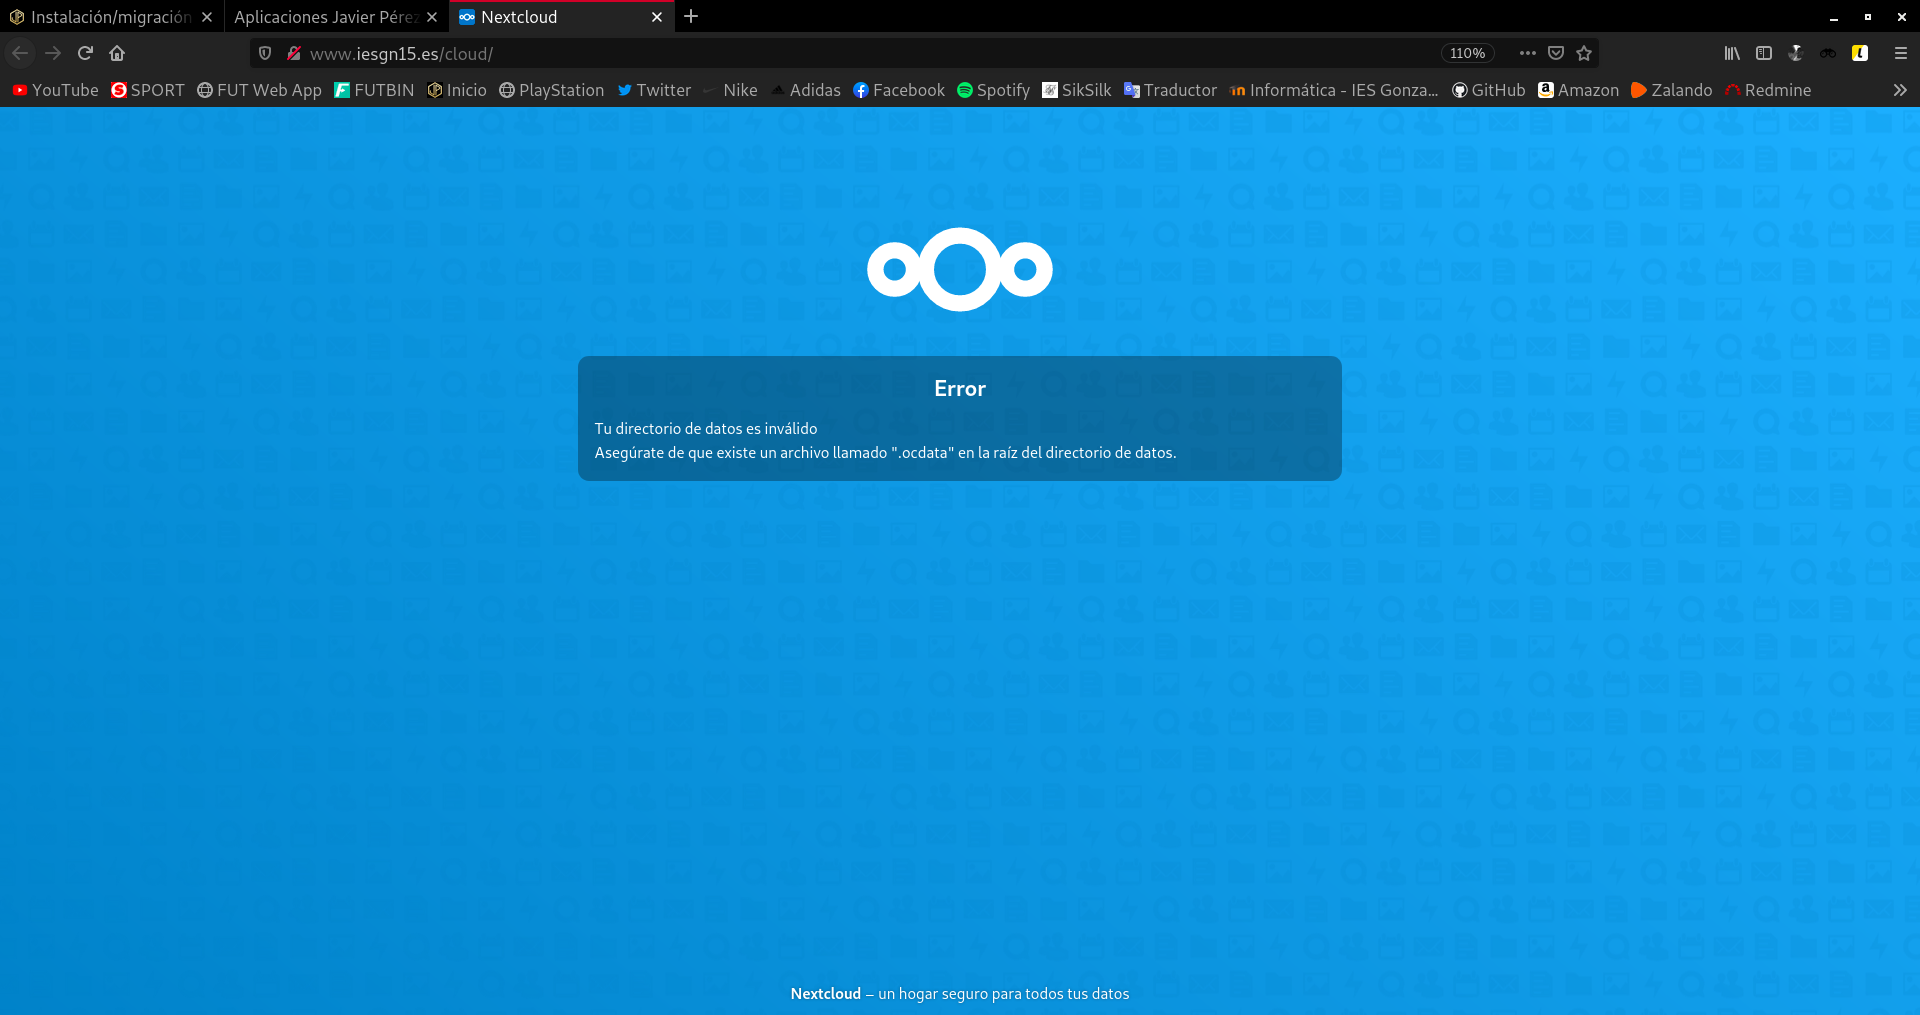
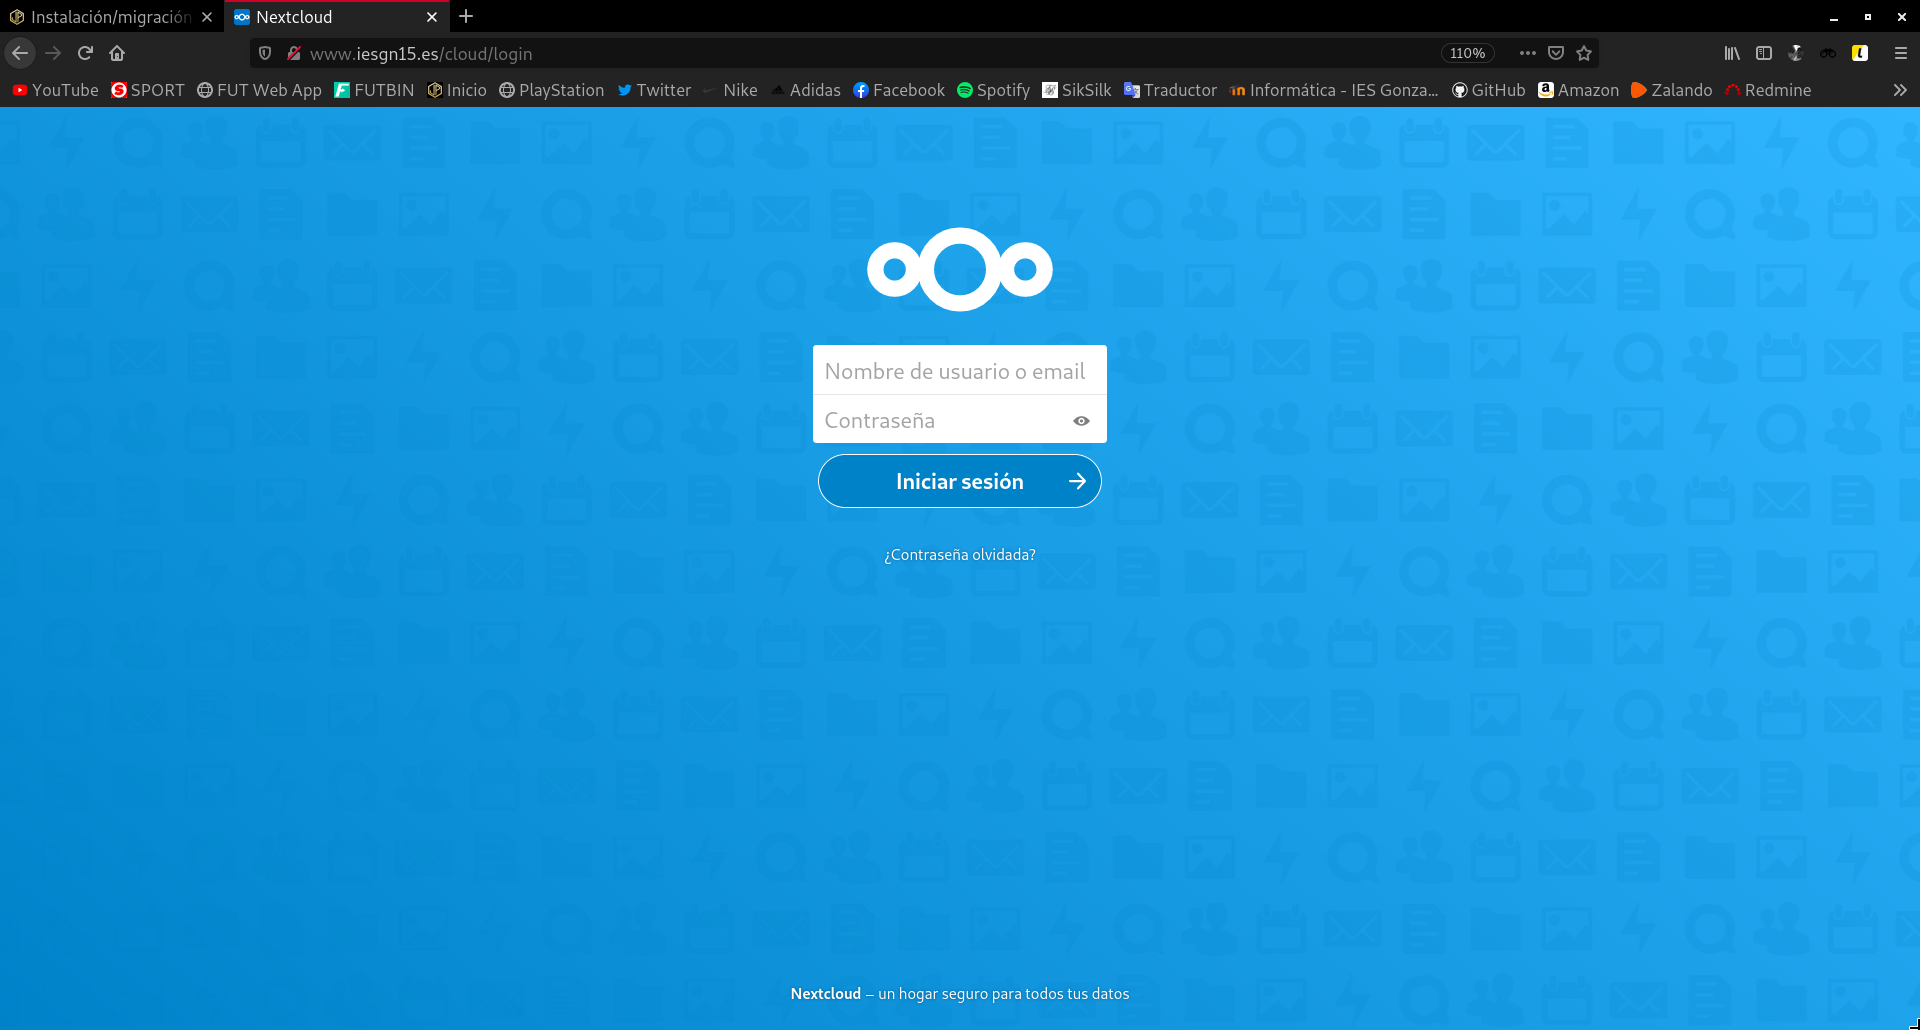
cambiosweb

diff --git a/instalacionmigracion-de-aplicaciones-web-php.html b/instalacionmigracion-de-aplicaciones-web-php.html
@@ -782,7 +782,7 @@ systemctl restart nginx
 </pre>
 
 <p>Accedemos a la dirección <code>http://www.iesgn15.es/cloud/</code> y obtenemos este resultado:</p>
-<p><img alt="." src="images/iaw_instalacion_migracion_de_aplicaciones_web_PHP/nextcloudovh.png"></p>
+<p><img alt="." src="images/iaw_instalacion_migracion_de_aplicaciones_web_PHP/nextcloudovhmal.png"></p>
 <p>Esto es porque tanto el fichero de configuración del virtualhost <em>Nextcloud</em>, como el fichero <code>(nextcloud)/config/config.php</code> no están bien configurados:</p>
 <p>El fichero <code>/etc/nginx/sites-available/nextcloud.conf</code> debe quedar así:</p>
 <pre>
@@ -927,6 +927,10 @@ $CONFIG = array (
 );
 </pre>
 
+<p>Si probamos de nuevo a acceder a <code>http://www.iesgn15.es/cloud/</code>:</p>
+<p><img alt="." src="images/iaw_instalacion_migracion_de_aplicaciones_web_PHP/nextcloudovh.png"></p>
+<p>Vemos que ya podemos <em>loguearnos</em> correctamente. Si accedemos con nuestro usuario:</p>
+<p><img alt="." src="images/iaw_instalacion_migracion_de_aplicaciones_web_PHP/nextcloudovhdentro.png"></p>
 <p><strong>3. Instala en un ordenador el cliente de <em>Nextcloud</em> y realiza la configuración adecuada para acceder a "tu nube".</strong></p>
 <p><strong>Documenta de la forma más precisa posible cada uno de los pasos que has dado, y entrega pruebas de funcionamiento para comprobar el proceso que has realizado.</strong></p>
     </article>
